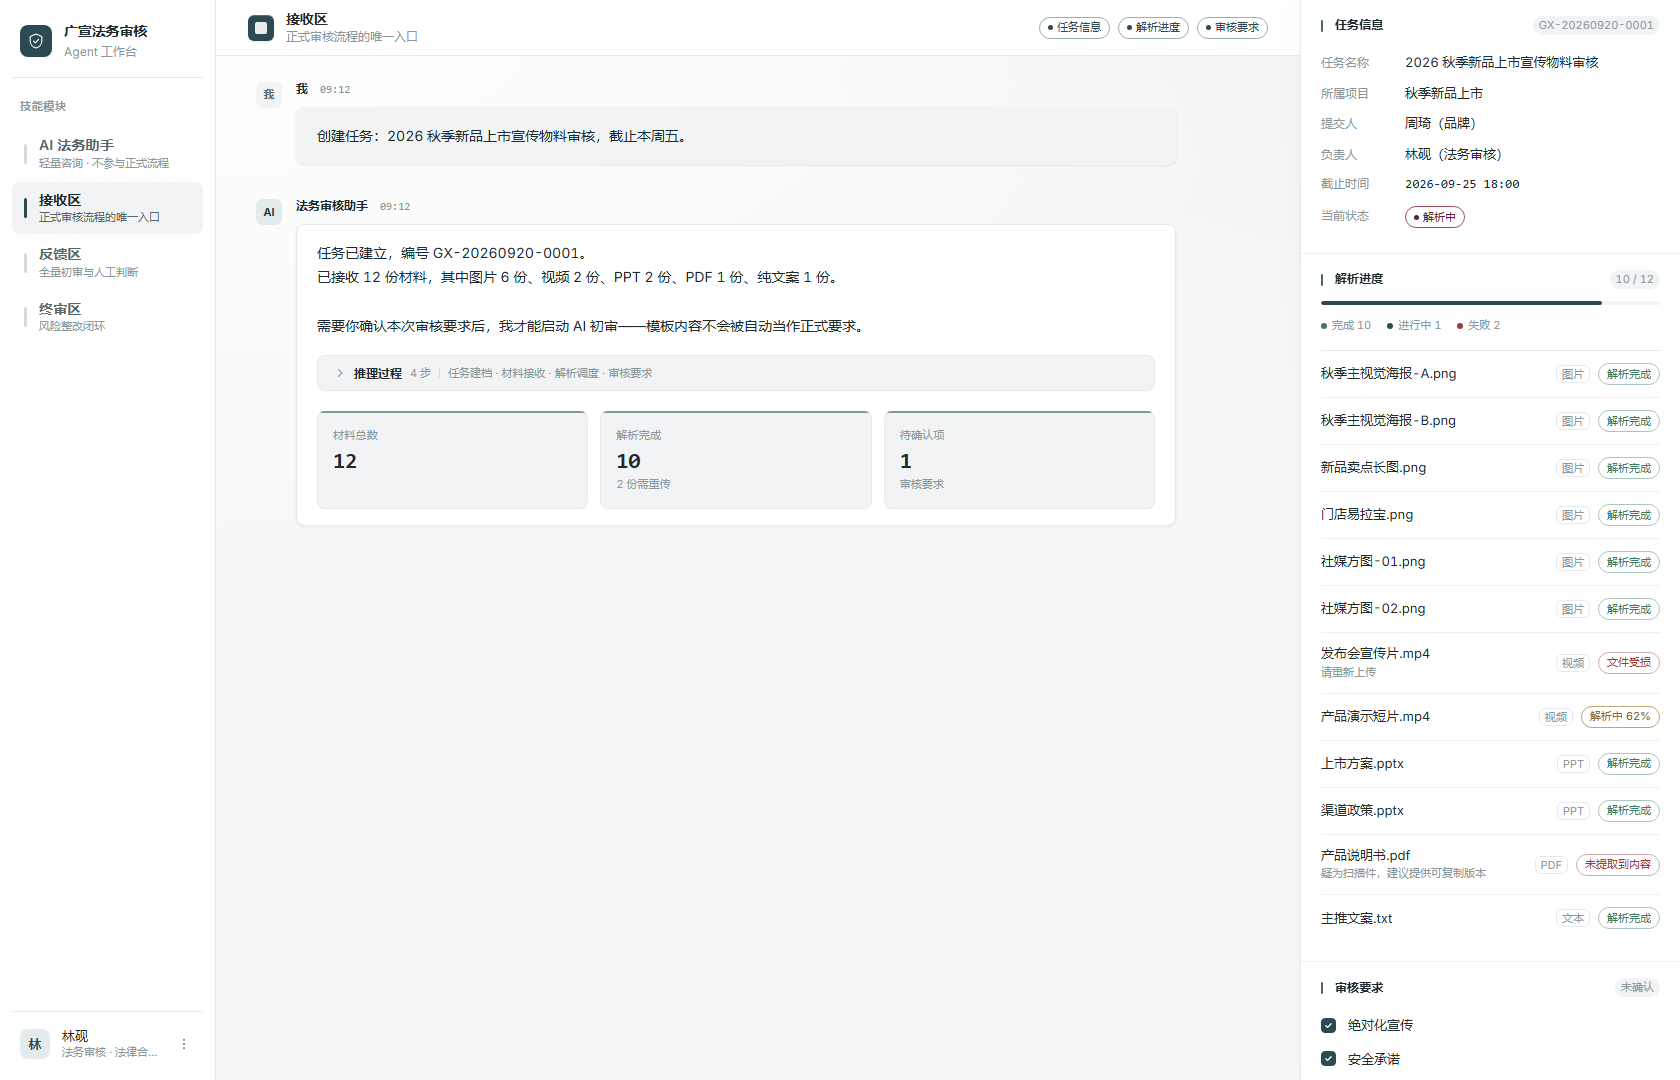
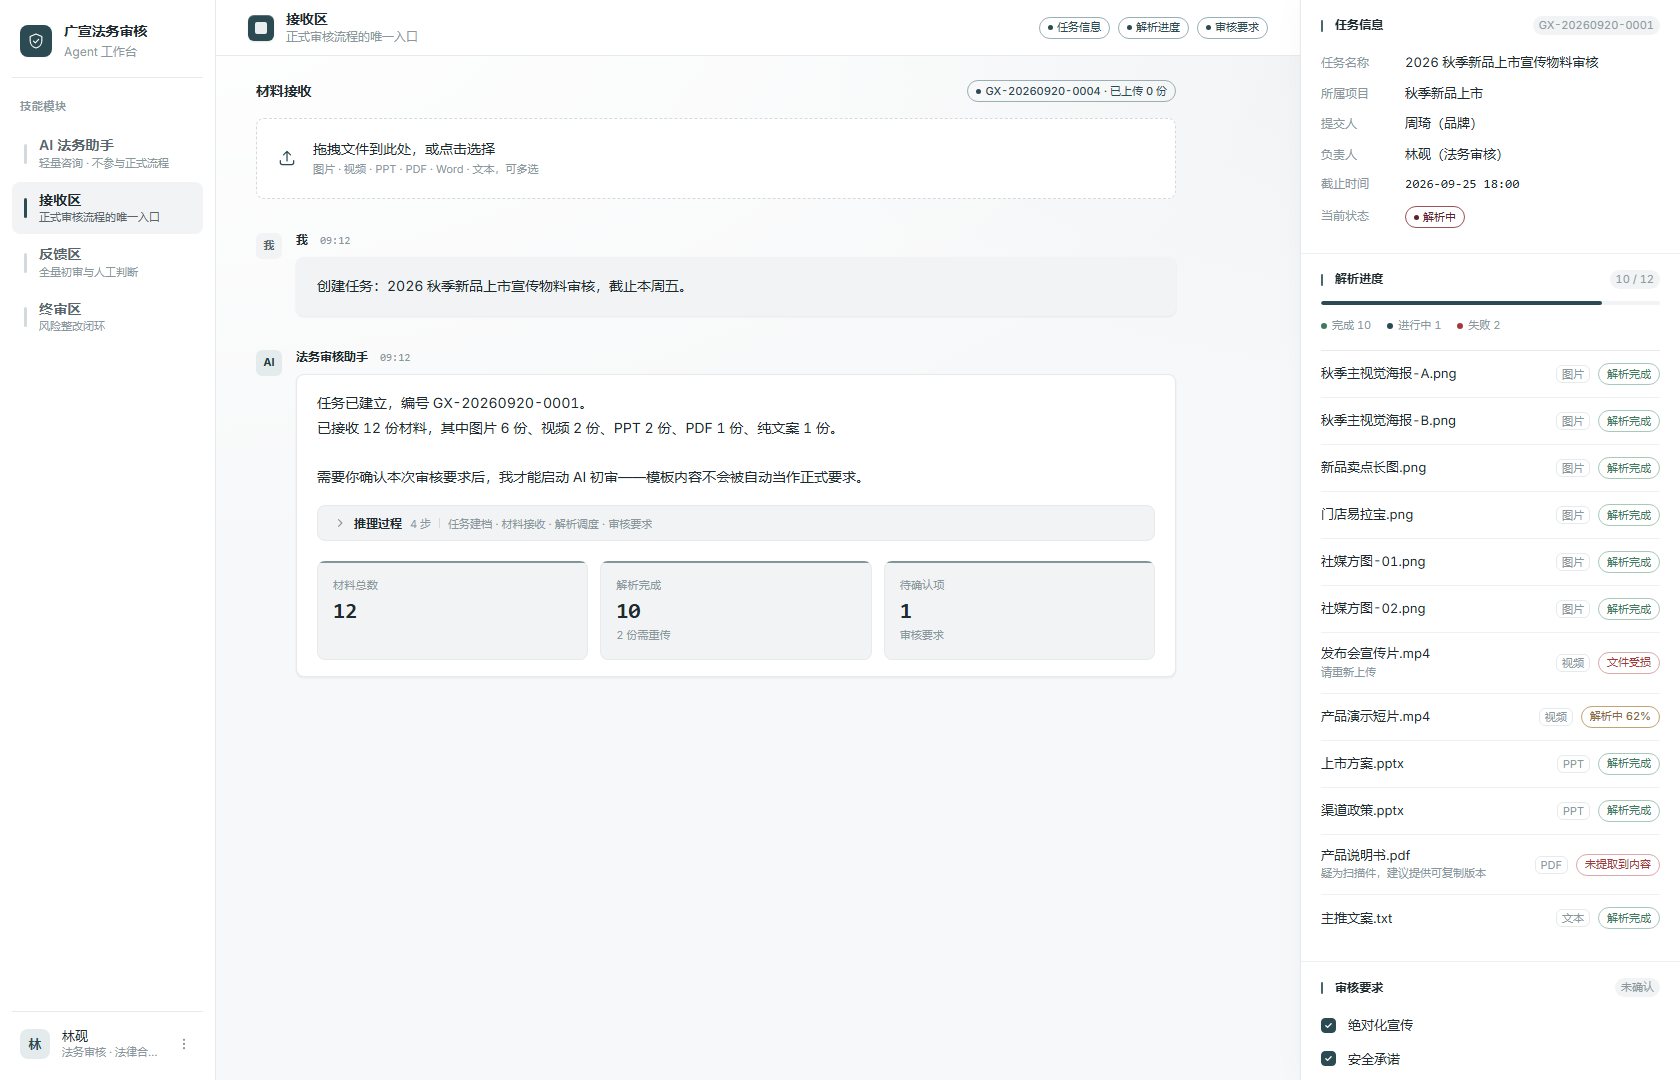
fix(web): 接收区进入即可上传，不再要求先手动建任务
问题：上传区在未创建任务时显示"请先创建审核任务"并处于禁用态，
用户进来看到的是一个灰色、点不动的区域，观感上等同于"上传功能用不了"。

改动
- 进入接收区时自动准备一个草稿任务，上传区立即可用
- 标题栏显示真实任务编号与已上传份数，让用户确认自己在上传到哪个任务
- 草稿任务未上传材料时不进入初审，不影响任何统计口径
- 上传区兜底文案由"请先创建审核任务"改为"正在准备审核任务…"

diff --git a/gw-web/src/views/IntakeView.vue b/gw-web/src/views/IntakeView.vue
@@ -6,7 +6,7 @@
  * 边界：本模块只把任务与材料规范地送入审核系统，
  *      **不提前展示最终风险结论** —— 因此右栏只有任务/进度/要求，没有风险条目。
  */
-import { ref } from 'vue'
+import { onMounted, ref } from 'vue'
 import ConversationThread, { type Message } from '@/components/ConversationThread.vue'
 import PanelCard from '@/components/PanelCard.vue'
 import FileDropzone from '@/components/FileDropzone.vue'
@@ -14,10 +14,13 @@ import FileDropzone from '@/components/FileDropzone.vue'
 /**
  * 当前任务的 id。
  *
- * 真实环境应从路由参数或任务列表进入；这里为了能直接演示上传与解析链路，
- * 用一个 ref 承载，并由「新建任务」动作写入真实 id。
+ * 进入模块时自动准备一个草稿任务，使用户可以立刻拖拽上传——
+ * 否则上传区会显示"请先创建审核任务"并处于禁用态，看起来像"功能用不了"。
+ * 草稿任务尚未上传材料时不影响任何统计口径（未进入初审就不计入通过率分母）。
  */
 const caseId = ref<number | null>(null)
+const caseNo = ref<string>('')
+const preparing = ref(false)
 /** 上传并解析成功的物料数，用于侧栏进度 */
 const uploadedCount = ref(0)
 
@@ -25,29 +28,43 @@ function onUploaded() {
   uploadedCount.value += 1
 }
 
-async function createCase() {
-  const { apiPost } = await import('@/api/client')
+/** 准备任务：已有则复用，没有则自动建一个草稿 */
+async function ensureCase(): Promise<number | null> {
+  if (caseId.value) return caseId.value
+  if (preparing.value) return null
+  preparing.value = true
   try {
+    const { apiPost } = await import('@/api/client')
     const c = await apiPost<{ id: number; caseNo: string }>('/api/intake/cases', {
       projectId: 1,
       name: '新一批宣传物料审核',
     })
     caseId.value = c.id
-    messages.value.push({
-      id: 'sys' + Date.now(),
-      role: 'agent',
-      text: `任务已建立：${c.caseNo}。现在可以上传材料了。`,
-      time: new Date().toTimeString().slice(0, 5),
-    })
+    caseNo.value = c.caseNo
+    return c.id
   } catch (e) {
     messages.value.push({
       id: 'err' + Date.now(),
       role: 'agent',
-      text: '创建任务失败：' + (e instanceof Error ? e.message : '未知错误'),
+      text: '任务准备失败：' + (e instanceof Error ? e.message : '未知错误')
+        + '\n请确认后端服务已启动（http://localhost:8080）。',
       time: new Date().toTimeString().slice(0, 5),
       tone: 'warning',
     })
+    return null
+  } finally {
+    preparing.value = false
   }
+}
+
+// 进入模块即准备任务，让上传区立即可用
+onMounted(() => {
+  void ensureCase()
+})
+
+async function createCase() {
+  caseId.value = null
+  await ensureCase()
 }
 
 const messages = ref<Message[]>([
@@ -151,12 +168,13 @@ const requirements = [
     <section class="intake-upload">
       <div class="intake-upload__head">
         <h2 class="intake-upload__title">材料接收</h2>
-        <button v-if="!caseId" class="gw-btn gw-btn--primary" type="button" @click="createCase">
-          新建审核任务
-        </button>
-        <span v-else class="gw-status gw-status--ink">
-          <span class="gw-status__dot" />任务 #{{ caseId }} · 已上传 {{ uploadedCount }} 份
+        <span v-if="caseId" class="gw-status gw-status--ink">
+          <span class="gw-status__dot" />{{ caseNo }} · 已上传 {{ uploadedCount }} 份
         </span>
+        <span v-else-if="preparing" class="gw-status gw-status--muted">正在准备任务…</span>
+        <button v-else class="gw-btn gw-btn--primary" type="button" @click="createCase">
+          重新准备任务
+        </button>
       </div>
       <FileDropzone :case-id="caseId" @uploaded="onUploaded" />
     </section>

diff --git a/gw-web/src/components/FileDropzone.vue b/gw-web/src/components/FileDropzone.vue
@@ -135,7 +135,9 @@ function removeItem(id: string) {
         stroke-width="1.5" stroke-linecap="round" />
     </svg>
     <div class="dz__text">
-      <span class="dz__title">{{ caseId ? '拖拽文件到此处，或点击选择' : '请先创建审核任务' }}</span>
+      <span class="dz__title">
+        {{ caseId ? '拖拽文件到此处，或点击选择' : '正在准备审核任务…' }}
+      </span>
       <span class="dz__sub">图片 · 视频 · PPT · PDF · Word · 文本，可多选</span>
     </div>
     <span v-if="busy" class="dz__spin" aria-hidden="true" />
